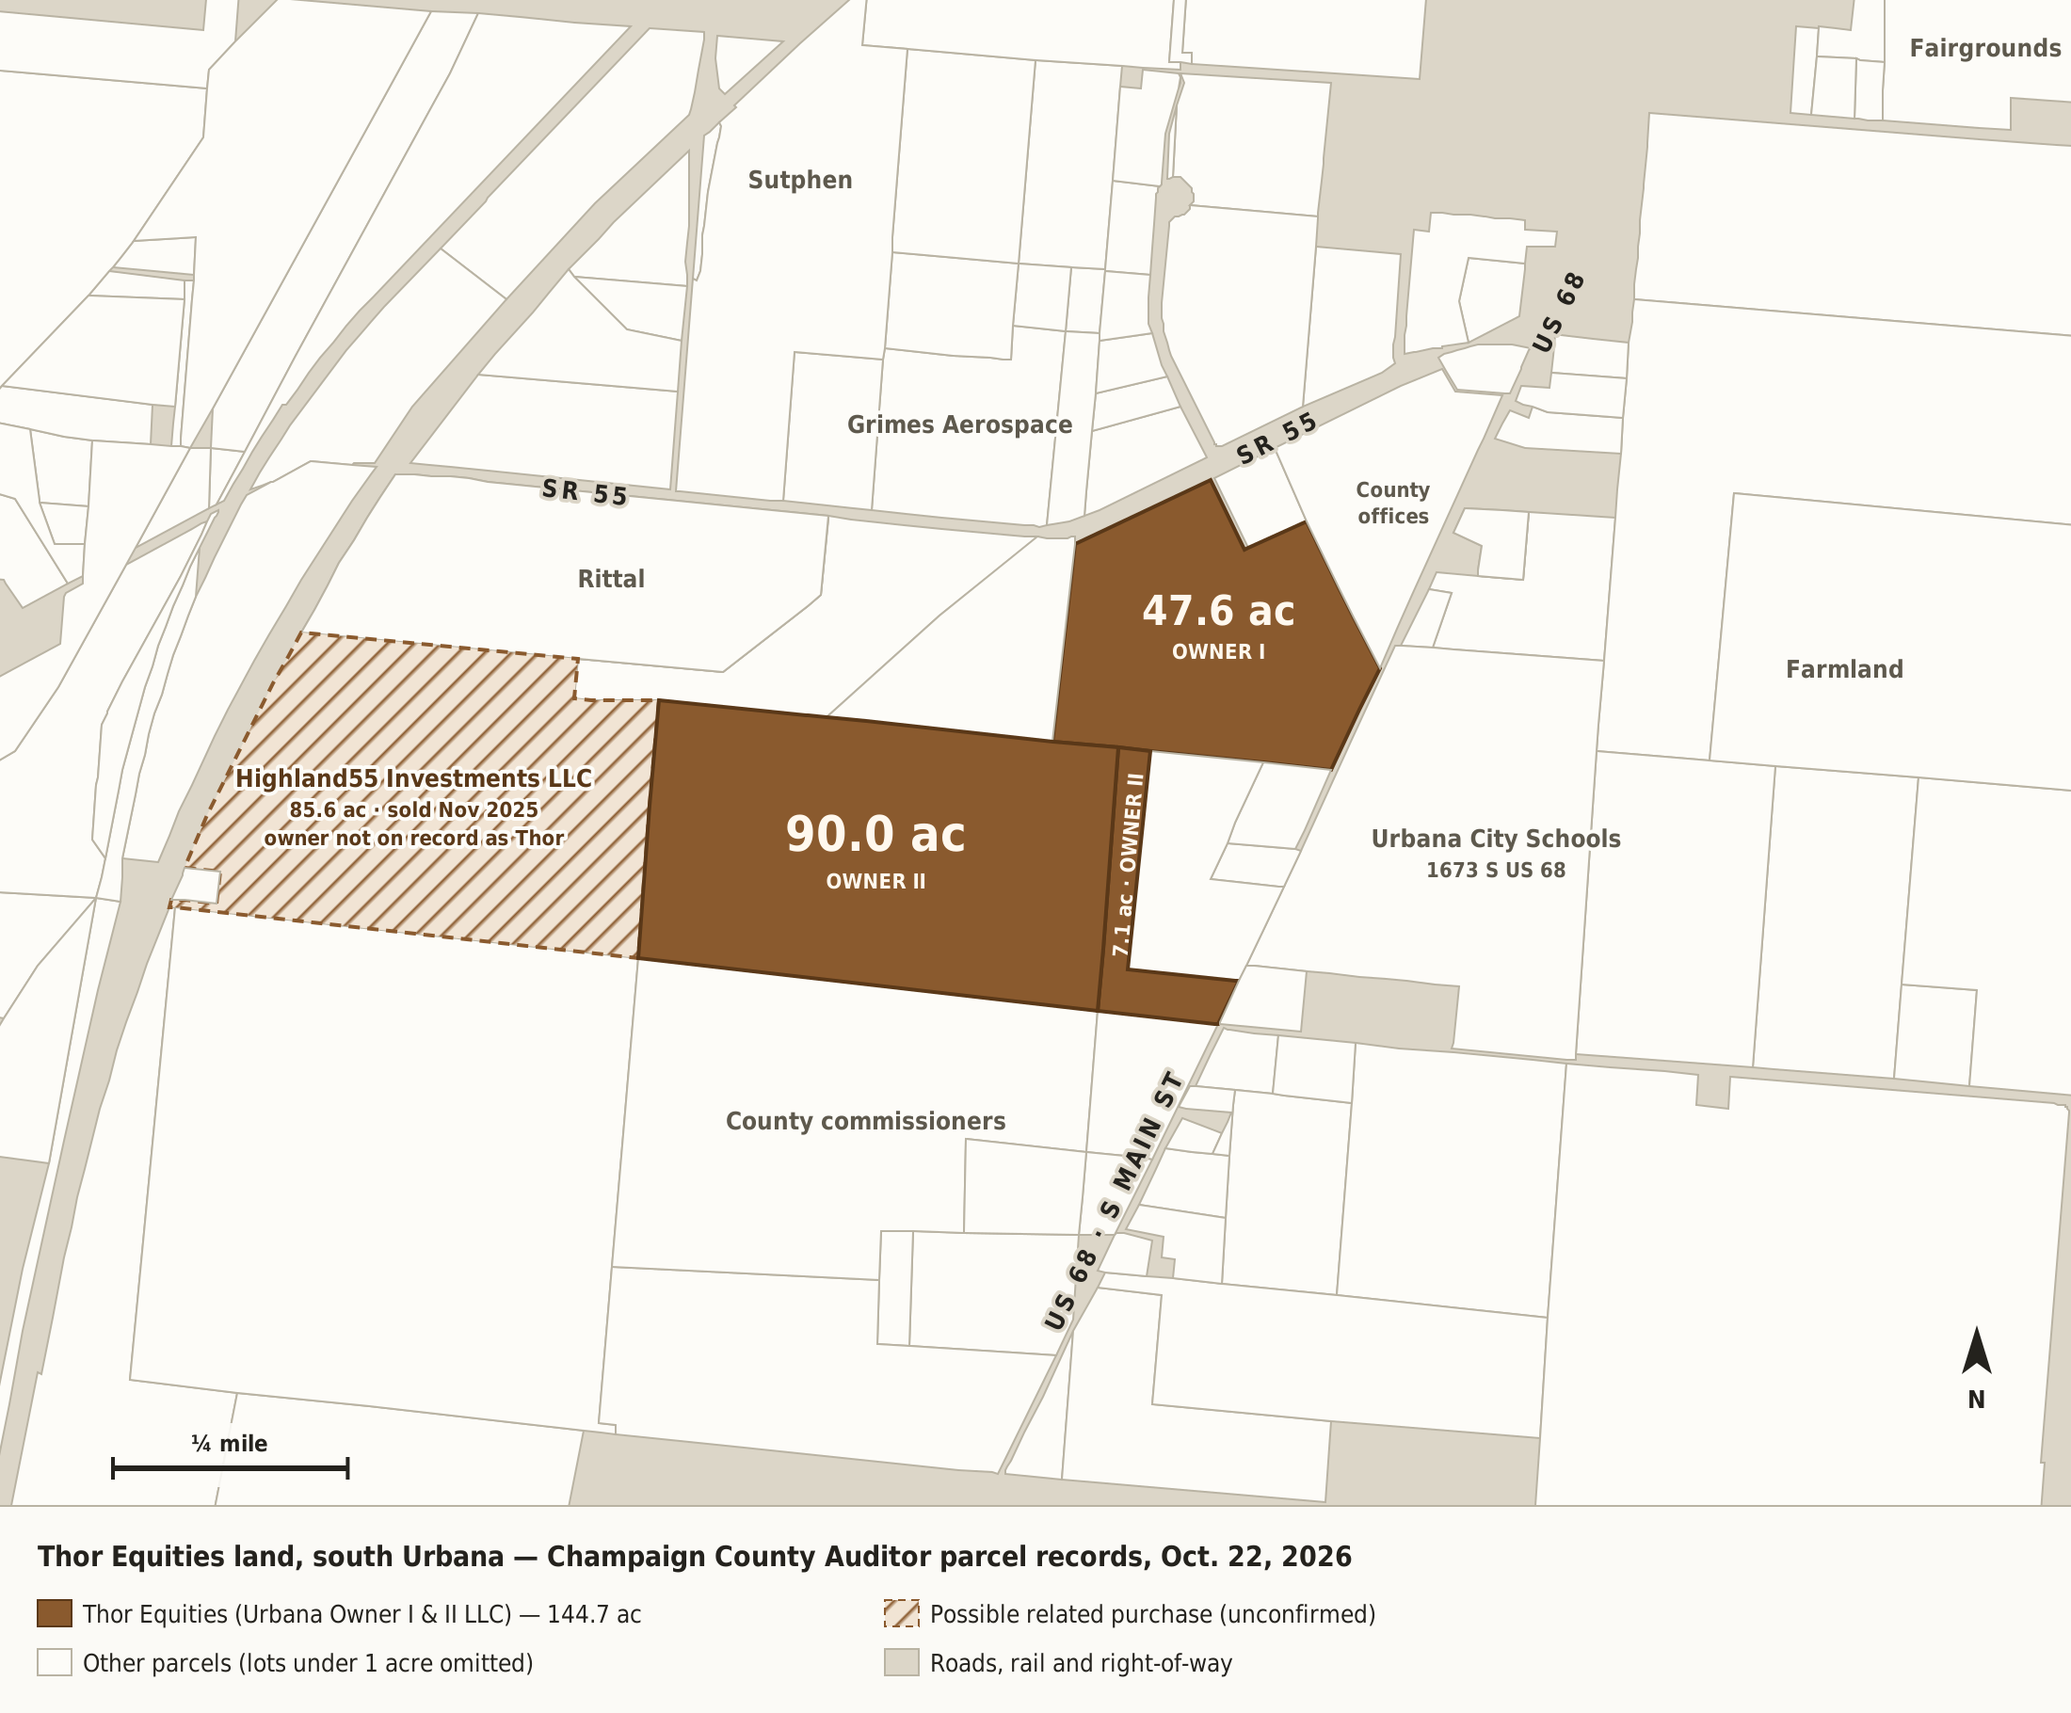
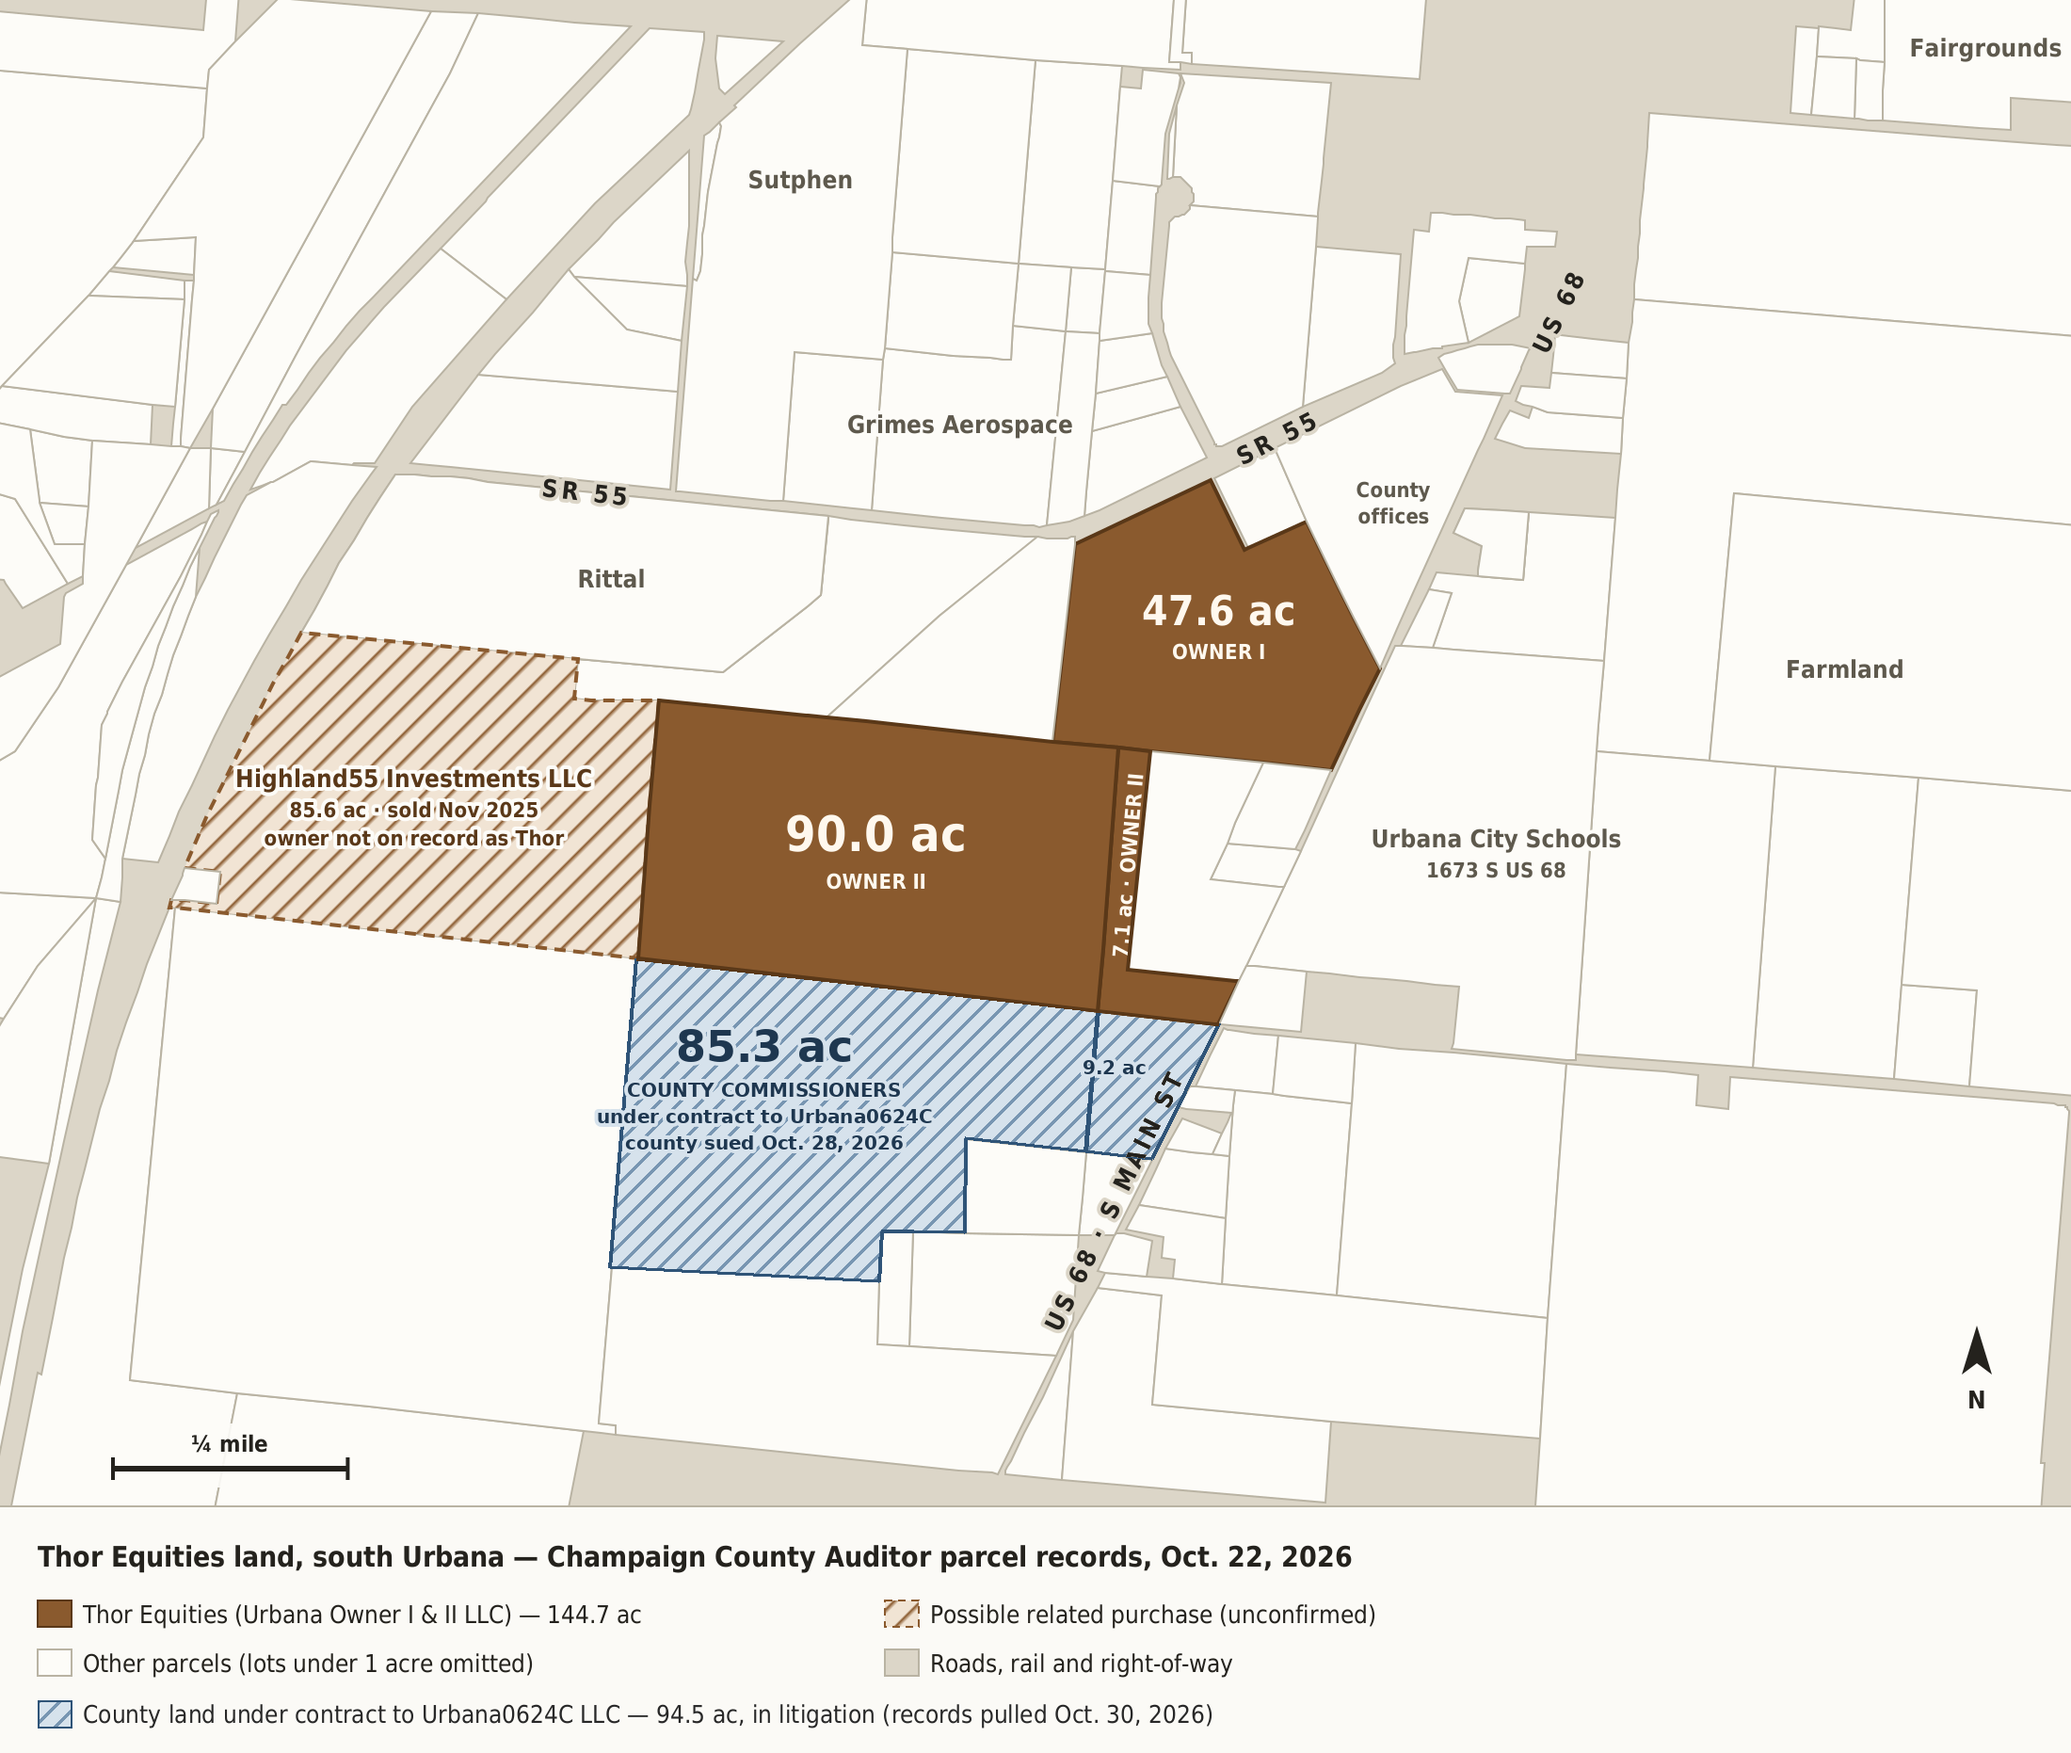
Map: add county 94.5-acre land under contract to Urbana0624C
Claude-Session: https://claude.ai/code/session_01DpjvcL5ZUrjvYv4G7eSf9x

diff --git a/_posts/2026-10-02-urbana-thor-data-center-timeline.md b/_posts/2026-10-02-urbana-thor-data-center-timeline.md
@@ -26,7 +26,7 @@ Over the following months the city reversed course. It passed a moratorium, repe
 
 ## Site Map
 
-![Parcel map of Thor Equities land in south Urbana, south of SR 55 and west of US 68](/assets/images/urbana-thor-parcels-map.png)
+![Parcel map of Thor Equities land in south Urbana, south of SR 55 and west of US 68, with the county-owned land under contract to Urbana0624C LLC shown in blue](/assets/images/urbana-thor-parcels-map.png)
 
 The Champaign County Auditor's parcel records show three parcels, 144.7 acres in all, held by two Thor Equities LLCs. All three are mailed to Thor Equities at 25 W 39th St, New York. Together they run from SR 55 south and east to US 68, beside the Urbana City Schools parcel at 1673 S US 68.
 
@@ -41,7 +41,9 @@ The two Owner II parcels match the "nearly 100 acres of Organ Farms land (about 
 
 The hatched parcel to the west is 85.6 acres owned by Highland55 Investments LLC of Columbus, sold in November 2025 for $3,210,713. The county record does not name Thor. Its size is the reason it is shown. It plus the 47.6-acre parcel make about 133 acres, the figure reported for Thor's 2025 purchases. All four parcels together total about 230 acres, the figure Thor gave in its federal lawsuit. Whether Highland55 is connected to Thor is not confirmed.
 
-Boundaries come from the county auditor's parcel layer as of Oct. 22, 2026. Lots under one acre are omitted from the drawing.
+The blue hatched land directly south of Thor's 90 acres belongs to the Champaign County Commissioners: parcels K48-25-11-01-36-001-00 (85.3 acres) and K48-25-11-01-37-001-00 (9.2 acres), 94.5 acres in all. This appears to be the 94.11 acres the county agreed in September 2024 to sell to Urbana0624C LLC for $3,293,850. The county sued the buyer on Oct. 28, 2026, saying it defaulted and the sale is off (see the [county land lawsuit timeline](/2026/10/30/champaign-county-land-lawsuit-timeline.html)). The parcels run from Thor's southern line east to US 68. The county's acreage of record is slightly larger than the contract figure.
+
+Boundaries come from the county auditor's parcel layer as of Oct. 22, 2026 (county parcels checked Oct. 30). Lots under one acre are omitted from the drawing.
 
 ## Timeline
 

diff --git a/_posts/2026-10-30-champaign-county-land-lawsuit-timeline.md b/_posts/2026-10-30-champaign-county-land-lawsuit-timeline.md
@@ -11,6 +11,12 @@ The county says the buyer defaulted by failing to close in early 2026. It wants 
 
 This is a separate case from Thor's two lawsuits against the city of Urbana. For the full data center story, see [The Thor Equities Data Center in Urbana, Ohio: Background and Timeline](/2026/10/02/urbana-thor-data-center-timeline.html).
 
+## Where the Land Is
+
+![Parcel map of south Urbana showing the county's 94.5 acres under contract to Urbana0624C LLC (blue) directly south of Thor Equities' land (brown)](/assets/images/urbana-thor-parcels-map.png)
+
+The county auditor lists two county parcels directly south of Thor's 90-acre parcel and east to US 68: K48-25-11-01-36-001-00 (85.3 acres) and K48-25-11-01-37-001-00 (9.2 acres). Together they total 94.5 acres. That is close to the 94.11 acres in the contract, and they appear to be the land in the lawsuit. The complaint, as reported, does not list parcel numbers.
+
 ## The Parties
 
 | Party | Role |
@@ -67,6 +73,7 @@ The complaint asks the court to:
 ## Sources
 
 - Urbana Daily Citizen, "Land in proposed data center area part of civil case" (Oct. 29, 2026) — <https://www.urbanacitizen.com/2026/10/29/land-in-proposed-data-center-area-part-of-civil-case/>
+- Champaign County Auditor, parcel records for K48-25-11-01-36-001-00 and K48-25-11-01-37-001-00 (accessed Oct. 30, 2026) — <https://auditor.co.champaign.oh.us/Parcel?Parcel=K48-25-11-01-36-001-00>
 - Urbana Daily Citizen, "Council OKs zoning reversal" (June 16, 2026) — <https://www.urbanacitizen.com/2026/06/16/city-council-approves-zoning-reversal-relating-to-data-centers/>
 - Springfield News-Sun, "Potential data center considered for Champaign County" (Feb. 2026) — <https://www.springfieldnewssun.com/news/potential-data-center-considered-for-champaign-county/BYYV3EK3ARGZFM4ARE3NPOSEH4/>
 - Springfield News-Sun, "Urbana neighbors, Cedar Bog advocates push back against data center" — <https://www.springfieldnewssun.com/news/urbana-neighbors-cedar-bog-advocates-push-back-against-data-center/article_ef8b79ef-69ee-52f1-a625-70058877177e.html>
